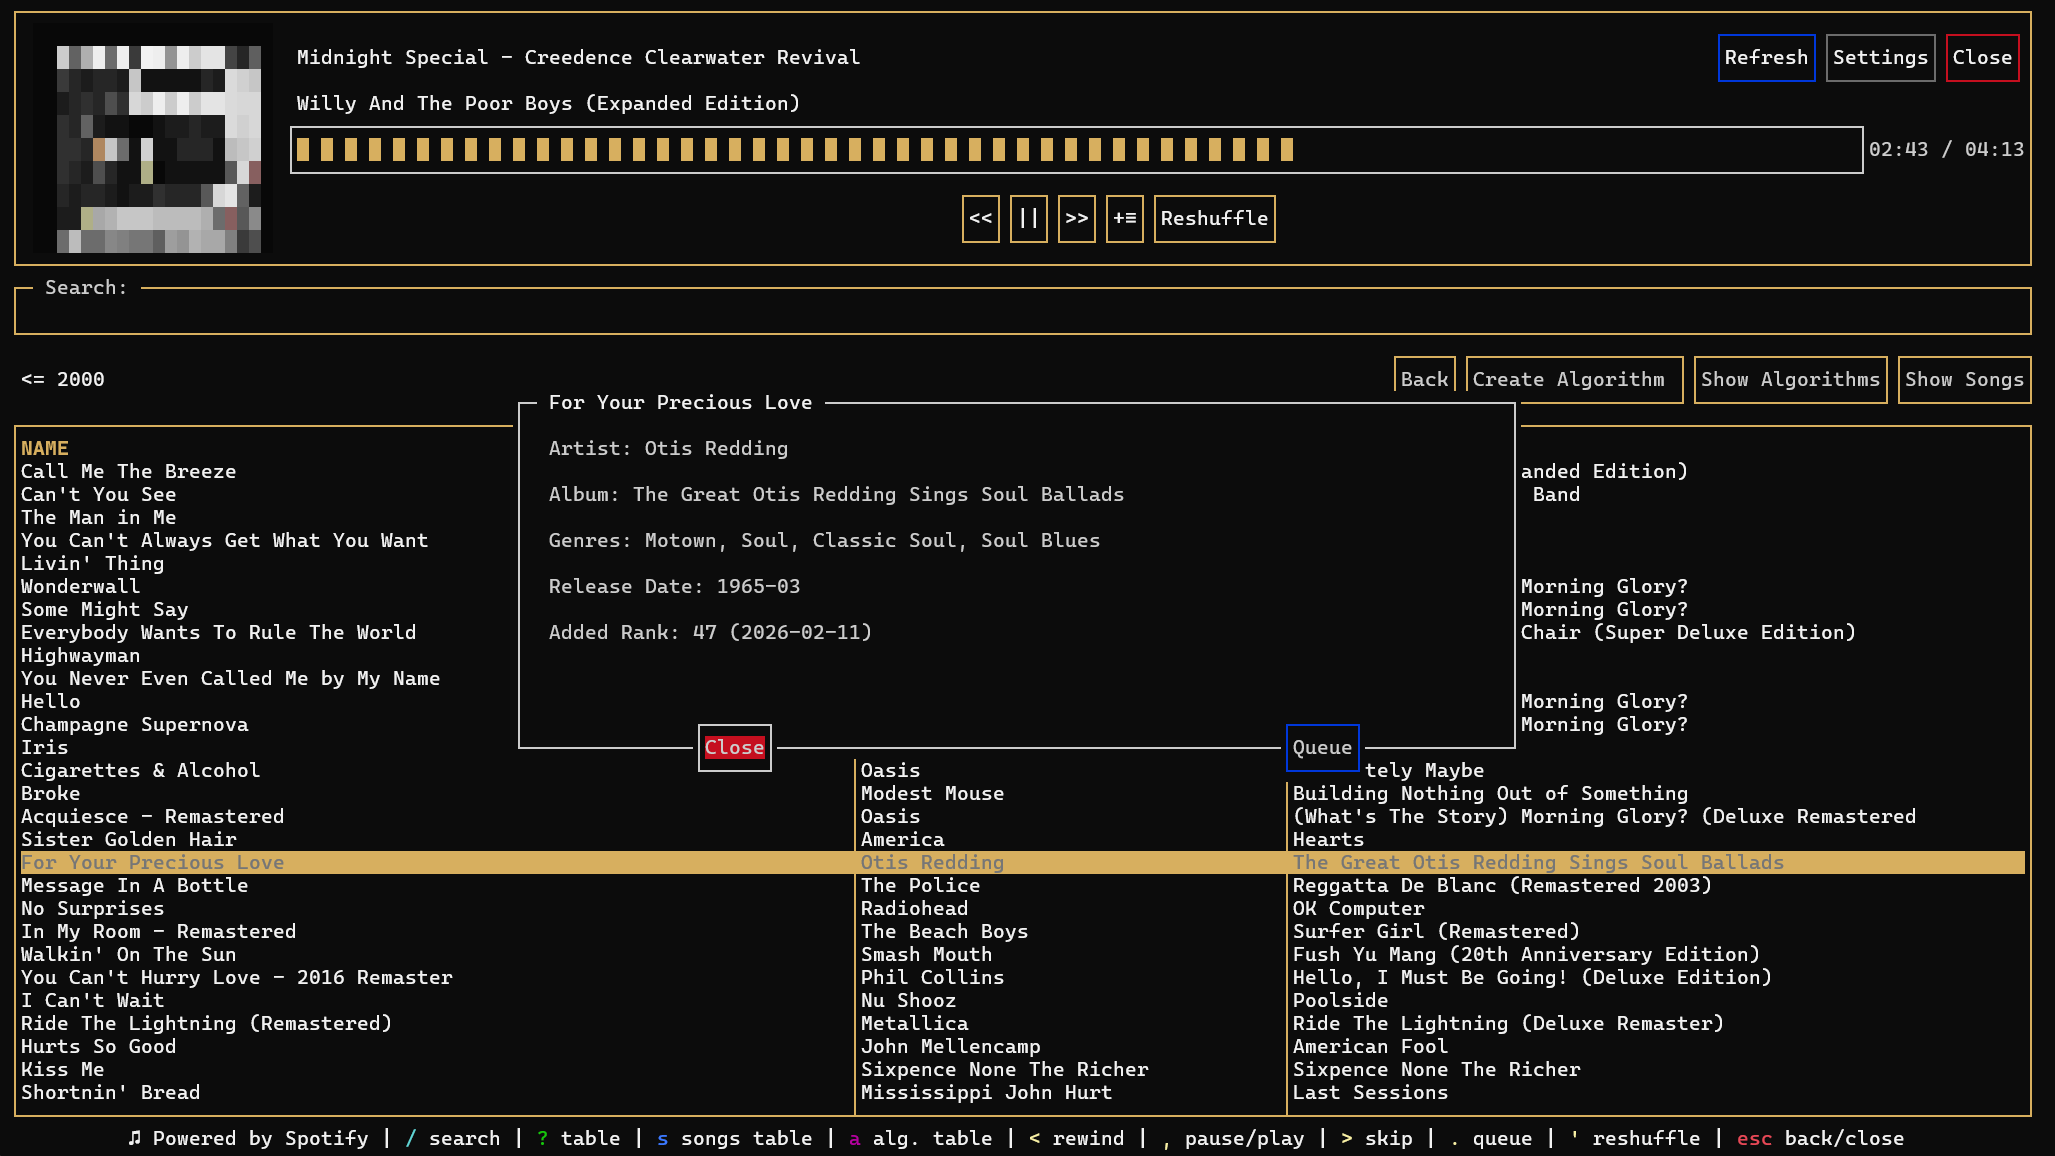
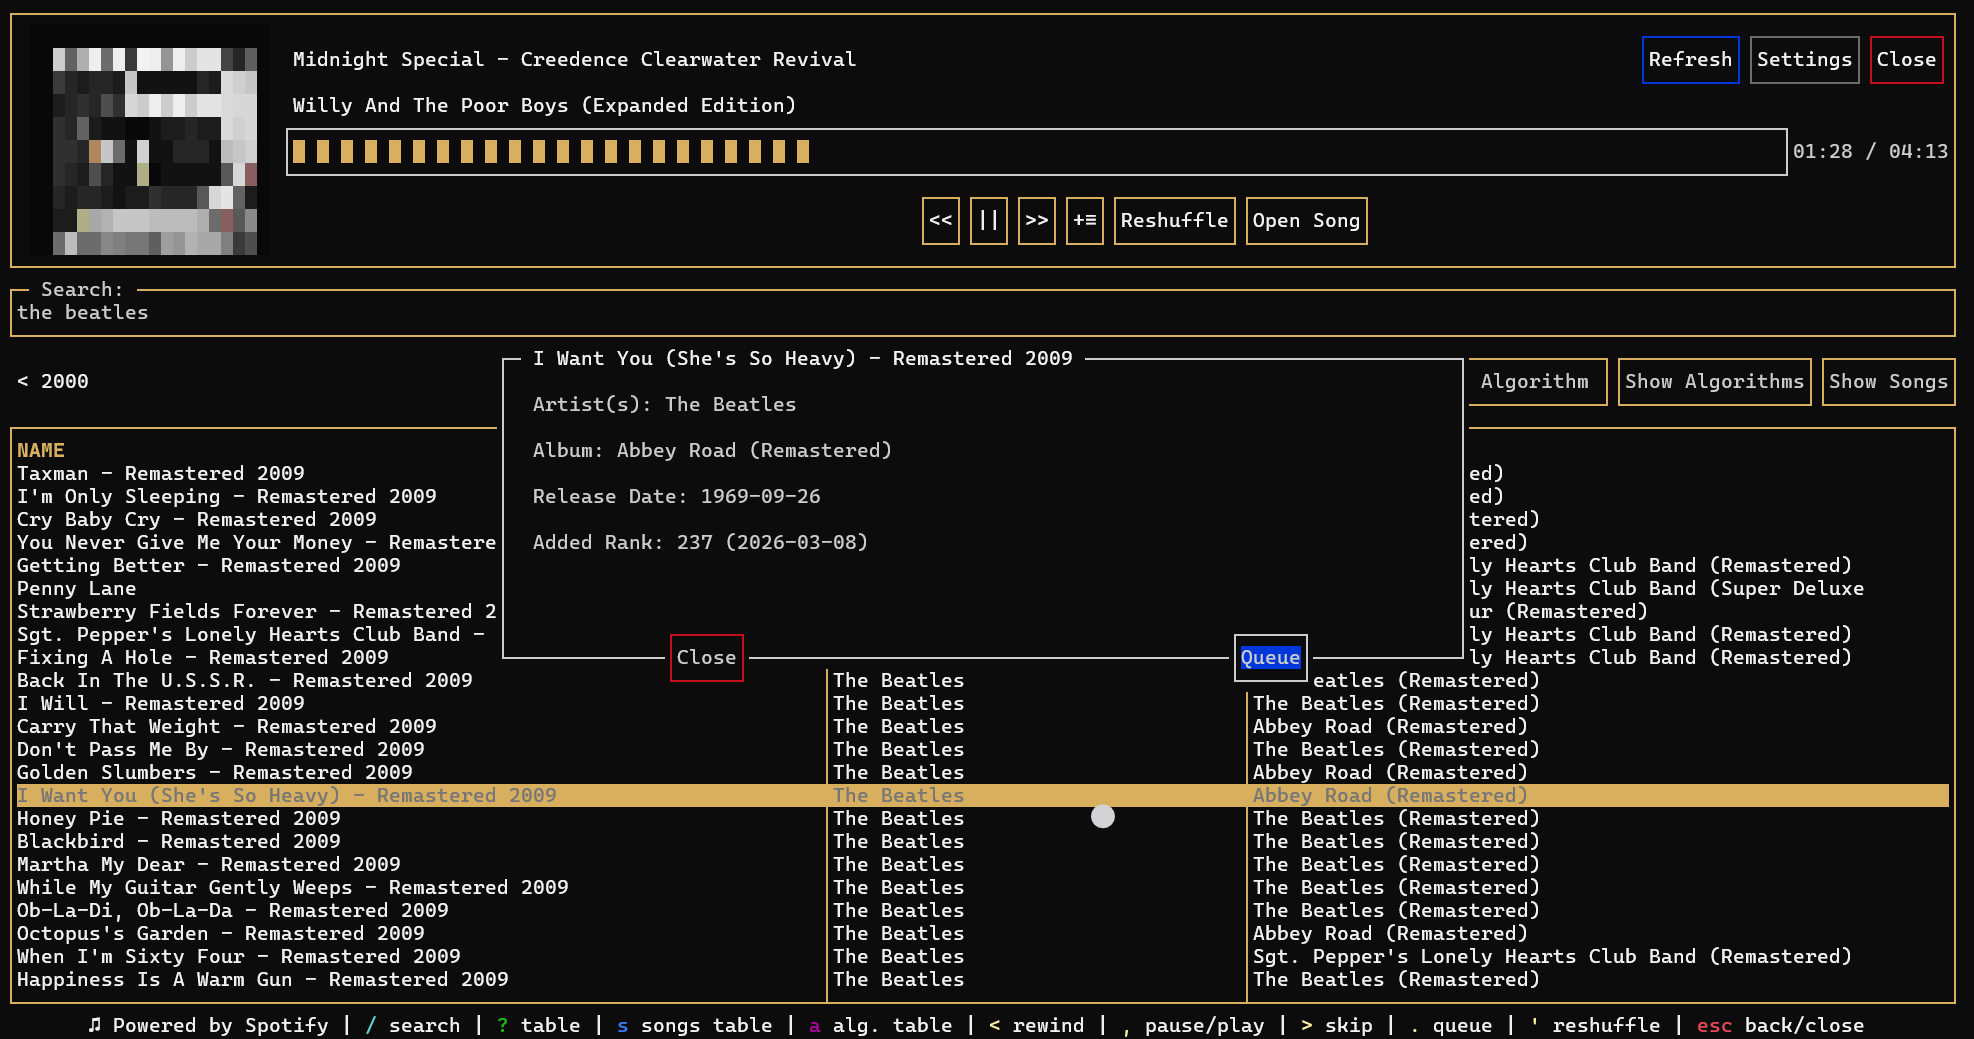
Update README
- Provide better documentation for app usage
    - Update screenshots, add new info about further app usage
    - Add Table of Contents

Changed region(s): [[0.0, 0.0, 0.9889, 1.0], [0.8343, 0.8932, 0.9271, 0.924]]

diff --git a/README.md b/README.md
@@ -2,12 +2,35 @@
 
 #### A local, terminal-based Spotify wrapper
 
-Delta Shuffler is a text-based user interface (TUI) that gives users greater control over their Spotify libraries. I'm constantly listening to music and I've found myself frustrated with Spotify's default algorithm. While the company has [claimed recent improvements](https://engineering.atspotify.com/2025/11/shuffle-making-random-feel-more-human), I still find myself unsatisfied with the product. Random shuffling tools are pretty common ([I](https://stevenaleong.com/tools/spotifyplaylistrandomizer) [found](https://trackify.am/tools/playlist-randomizer-spotify) [three](https://shuffle.virock.org) in about 10 seconds of searching), though, and Spotify [maintains](https://engineering.atspotify.com/2025/11/shuffle-making-random-feel-more-human#:~:text=Standard%20Shuffle%3A%20still%20pure%20randomness) that its Standard Shuffle is entirely random. A few features differentiate this tool from alternatives:
-- Delta Shuffler is run locally and completely isolated to the user's machine. This keeps users in control of their API tokens without outsourcing them to any third-party servers
-- Most alternatives only offer random shuffling, but this project expands on that functionality by allowing users to create custom algorithms and relational playlists
+---
+
+## Table of Contents:
+- [About](#about)
+- [User Guide](#user-guide)
+  - [Setup](#setup)
+  - [Queueing Songs](#queueing-songs)
+  - [Creating and Running Algorithms](#creating-and-running-algorithms)
+  - [Dependent Playlists](#dependent-playlists)
+  - [Queueing Top Items](#queueing-top-items)
+  - [Keyboard Shortcuts](#keyboard-shortcuts)
+- [Design Decisions](#design-decisions)
+  - [Why a TUI?](#why-a-tui)
+  - [No Local Database?](#no-local-database)
+  - [No Mouse Support?](#no-mouse-support)
+  - [No Music Playback?](#no-music-playback)
+  - [Support for Non-Premium Users?](#support-for-non-premium-users)
+- [Future Improvements](#future-improvements)
+
+---
+
+## About
+
+Delta Shuffler is a text-based user interface (TUI) that gives users greater control over their Spotify libraries. As someone who is constantly listening to music, I've found myself frustrated with Spotify's default algorithm. While the company has [claimed recent improvements](https://engineering.atspotify.com/2025/11/shuffle-making-random-feel-more-human), I still find myself unsatisfied with the product. Random shuffling tools are pretty common ([I](https://stevenaleong.com/tools/spotifyplaylistrandomizer) [found](https://trackify.am/tools/playlist-randomizer-spotify) [three](https://shuffle.virock.org) in about 10 seconds of searching), though, and Spotify [maintains](https://engineering.atspotify.com/2025/11/shuffle-making-random-feel-more-human#:~:text=Standard%20Shuffle%3A%20still%20pure%20randomness) that its Standard Shuffle is entirely random. A few features differentiate this tool from alternatives:
+- Delta Shuffler is run locally and, aside from calls to Spotify, is completely isolated to the user's machine. This keeps users in control of their API tokens without outsourcing them to any third-party servers
+- Most alternatives only offer random shuffling. This project expands on that functionality by allowing users to create custom Algorithms and Dependent Playlists
 - Other services remove and add tracks to users' playlists when shuffling, modifying the playlist's original order. Delta Shuffler avoids this by queuing songs rather than modifying users' playlists
 
-The overall goal of this project was to create Spotify functionality similar to [iTunes' Smart Playlists](https://support.apple.com/guide/itunes/create-delete-and-use-smart-playlists-itns3001/windows). Given their focus on AI, Spotify seems reluctant to grant users any greater control over their playlists and algorithms.
+The overall goal of this project was to create functionality similar to [iTunes' Smart Playlists](https://support.apple.com/guide/itunes/create-delete-and-use-smart-playlists-itns3001/windows). Spotify seems reluctant to grant users greater control over their playlists and algorithms given their focus on AI, so no solution is likely coming from them.
 
 ---
 
@@ -15,18 +38,18 @@ The overall goal of this project was to create Spotify functionality similar to 
 
 ### Setup
 
-To begin, you'll need to navigate to https://developer.spotify.com and sign in. From there, navigate to your Dashboard and create an app. Set the following information:
+To begin, go to https://developer.spotify.com and sign in. From there, navigate to your Dashboard and create an app. Set the following information:
 
 - App name/description: whatever works best for you. "Delta Shuffler" is recommended, but anything should work
 - Redirect URIs: http://127.0.0.1:3438/spotifyLogin
   - This redirects Spotify's authorization response to your local application, preventing the need for any external servers
 - API/SDKs: Web API
 
-Once your app is created, boot up Delta Shuffler. Enter your Client ID and Client Secret and authenticate. Successful authentication should route you to a local web page, after which the app will begin downloading your playlists and Liked Songs.
+Once your app is created, boot up Delta Shuffler. Enter your Client ID and Client Secret and authenticate. Successful authentication should route you to a local web page, after which the app will prompt you to begin downloading your playlists and Liked Songs. __Recent Spotify API changes have significantly limited the number of requests per application. It is recommended that you only download your most frequently used playlists to avoid any issues.__
 
 ![refresh screen](assets/refresh.png)
 
-From here, you can view any playlist, its songs, and its default "Completely Random" algorithm. While Spotify maintains that it provides a completely random option, I figured it was worth adding for anyone distrusting of them.
+From here, you can view any playlist, its songs, and its default "Completely Random" Algorithm. While Spotify maintains that it provides a completely random option, I figured it was worth adding for anyone who doesn't trust them.
 
 Refresh the application whenever you make changes on Spotify that you would like to be reflected in Delta Shuffler. Refreshing can take a bit of time, so be careful to not do it too frequently.
 
@@ -36,33 +59,42 @@ Users can queue songs directly via the Songs view. Navigate to the Show Songs bu
 
 ![queue song](assets/queueSong.png)
 
-Note that you must be listening to a song on Spotify for this to work properly. A good rule to follow is that if you see a song title in the top left corner, you should be good to queue.
+Note that you must already be listening to a song on Spotify for this to work properly. A good rule to follow is that if you see a song title in the top left corner, you should be good to queue.
 
 ### Creating and Running Algorithms
 
-Algorithms are at the heart of Delta Shuffler's functionality. With an algorithm, you can randomly shuffle any of a playlist's songs that meet user-defined conditions. Algorithms can filter on something simple, like a playlist's songs being on _Abbey Road_:
+Algorithms are at the heart of Delta Shuffler's functionality. With an Algorithm, you can randomly shuffle any of a playlist's songs that meet user-defined conditions. Algorithms can filter on something simple, like a playlist's songs being on _Abbey Road_:
 
 ![Abbey Road algorithm](assets/abbeyRd.png)
 
-Algorithms can also filter in more complex ways, like a playlist's songs that were performed by a few British groups or released in the 80s:
+Algorithms can also filter in more complex ways, like retrieving songs that were performed by a few British groups or released in the 80s:
 
 ![British or 80s algorithm](assets/britishOr80s.png)
 
-After creating an algorithm, you can randomly queue songs that match its criteria. Up to 50 matching songs can be added to your queue at once. Again, to queue a song, you must be already listening to any song on Spotify.
+After creating an Algorithm, you can randomly queue songs that match its criteria. Up to 50 matching songs can be added to your queue at once. Again, to queue a song, you must be already listening to something on Spotify.
 
-Values for Album, Artist, and Song must match their target **exactly**. For example, use "Stairway to Heaven - Remaster" and not "Stairway to Heaven". `IN`/`NOT IN` operators support multiple elements, but they must be separated by a `, `. Ideally a multi-select, searchable dropdown would be used here, but that proved to be too difficult to create in Blessed (the project's TUI library). The Added condition corresponds to how recently a song was added to your playlist. Values begin at 1 and lower values correspond to more recent songs, so a song with a value of 1 was your playlist's most recent addition.
+Values for `Album`, `Artist`, and `Song` filters must match their target **exactly**. For example, use "Stairway to Heaven - Remaster" and not "Stairway to Heaven". `IN`/`NOT IN` operators support multiple elements, but they must be separated by a `, `. Ideally a multi-select, searchable dropdown would be used here, but that proved to be too difficult to create in Blessed (the project's TUI library). The `Added` condition corresponds to how recently a song was added to your playlist. Values begin at 1 and lower values correspond to more recent songs. So, a song with a value of 1 was your playlist's most recent addition.
 
 ### Dependent Playlists
 
-If you really like an algorithm, you can create a dependent playlist from it. Select an algorithm and the "Create Playlist" option, give your playlist a name, and your new dependent playlist will be visible in your Spotify library. Dependent playlists are updated on Refresh both locally and in Spotify according to their source playlists.
+If you really like an Algorithm, you can create a Dependent Playlist from it. Select an Algorithm and the "Create Playlist" option, give your playlist a name, and your new Dependent Playlist will be visible in your Spotify library. Refreshing in Delta Shuffler also updates Dependent Playlists in Spotify.
 
-As an example, you can use the "Added" condition to create a dependent playlist with your source's 30 most recently added songs. Songs will be added/removed as your source playlist changes, giving you a trimmed-down version of a longer playlist.
+As an example, you can use the "Added" condition to create a Dependent Playlist with your source's 30 most recently added songs. Songs will be added/removed as your source playlist changes, giving you a trimmed-down version of a longer playlist.
 
-Note: If you're interested in a Spotify-native solution, Spotify's new [AI playlist feature](https://support.spotify.com/us/article/ai-playlist/) seems to work pretty well and can accomplish similar playlist filtering.  
+Note: If you're interested in a Spotify-native solution, Spotify's new [AI playlist feature](https://support.spotify.com/us/article/ai-playlist/) seems to work pretty well and can accomplish similar playlist filtering. Dependent Playlists are still a great option if you're looking to quickly create a playlist based on an existing Algorithm.
+
+### Queueing Top Items
+
+Users can also queue their top artists or songs from the Queue Top Items button. Top items will be retrieved depending on the user-selected timeframe (`Last Month`, `Last 6 Months`, `Last Year`) and the `Top X Items` limit that the user provides.
+
+The following input queues 25 songs from the user's top 15 artists over the past 6 months. Artist's songs are retrieved from tracks that are on downloaded playlists:
+
+![Queue Top Items](assets/topItems.png)
+
 
 ### Keyboard shortcuts
 
-A few keyboard shortcuts are available to highlight buttons and improve navigation throughout the app:
+A few keyboard shortcuts are available to improve navigation throughout the app:
 
 | Key | Destination |
 | --- | --------- |
@@ -82,21 +114,29 @@ A few keyboard shortcuts are available to highlight buttons and improve navigati
 
 ### Why a TUI?
 
-A TUI best aligned with my goals for this project to be lightweight and entirely local. A local web application or an Electorn app both felt like overkill for the application's needs. Selfishly, I also wanted to learn more about TUIs through this project. Using programs like Vim and [k9s](https://github.com/derailed/k9s) made me more interested in these applications.
+A TUI best aligned with my goals for this project to be lightweight and entirely local. A local web application or an Electron app would both have been too much for the application's needs. Selfishly, I also wanted to learn more about TUIs through this project. Using programs like Vim and [k9s](https://github.com/derailed/k9s) made me more interested in these applications.
 
-One downside of making a TUI is a limited audience; web-based and Electron applications are rightly popular for their greater reach with less savvy audiences. Given the nature of the application, however, I was willing to accept this downside. I figured that most users nerdy enough to want custom shuffling algorithms would be fine with running a program through their terminal :smile:.
+One downside of making a TUI is a limited audience; web-based and Electron applications are rightly popular for their greater reach with less savvy audiences. Given the nature of the application, however, I was willing to accept this downside. I figured that most users nerdy enough to want custom shuffling algorithms would be happy to run a program through their terminal :smile:.
 
-### No local database?
+### No Local Database?
 
 I opted against running a local database to keep the application particularly lightweight. User data is stored in JSON files instead. Given a typical user's data volume and the low number of JOINs, this seemed to be the best option. To handle the M:N relationship between Songs and Playlists, I created the `playlistSongs.json` file, which stores `playlistId`, `songId`, `addedAt`, and `addedRank` attributes.
 
 Still, I should optimize data read/write operations. Much of the current logic is undoubtedly inefficient, and I'm sure I can find more optimal routes to perform our database operations.
 
-### No mouse support?
+### No Mouse Support?
 
 I opted against adding mouse support because I imagined it would interfere with the "retro vibe" I was looking to create. I'm aware this is a pretty weak argument, but I never imagined using a mouse to interact with the application :man_shrugging:.
 
 I added keyboard shortcuts to make navigation easier. I recommend leveraging those if you find yourself frustrated with the application.
+
+### No Music Playback?
+
+Spotify's [Web Playback SDK](https://developer.spotify.com/documentation/web-playback-sdk) provides audio playback options, but this application was never intended to completely replace your Spotify player. You should still plan to begin listening to tracks in Spotify. While I may add player funcitonality in the future, I was looking to avoid feature creep on a smaller personal project.
+
+### Support for Non-Premium Users?
+
+Unfortunately, users must be Spotify Premium subscribers to access the [Web API](https://developer.spotify.com/documentation/web-api). I apologize, but this is a restriction from Spotify themselves.
 
 ---
 
@@ -105,8 +145,8 @@ I added keyboard shortcuts to make navigation easier. I recommend leveraging tho
 While currently in a working state, there are many things I hope to improve about this application:
 
 - Genre filtering
-  - Genre filtering was previously supported, but was removed after being deprecated by Spotify's recent API changes. Running algorithms based on certain genres would be a helpful feature, and I hope to find a suitable method for retrieving genres soon. 
-- Quicker refreshes
-  - Refershing your local database can take a minute or two. While much of this is dependent on Spotify's API response times, there are surely opportunities to act more efficiently on our end.
+  - Genre filtering was previously supported, but was removed after being deprecated by Spotify's recent API changes. Running Algorithms based on certain genres would be a helpful feature, and I hope to find a suitable way to retrieve genres soon.
 - Code quality
   - Given the non-reactive nature of Blessed, I resorted to some bad practices to get everything working properly. I could really stand to implement a few design patterns to reduce coupling throughout the code base.
+- Player functionality
+  - It would be nice if users could listen to tracks directly in their terminal. I have no idea what this would look like, but it could be worth investigating in the future.
